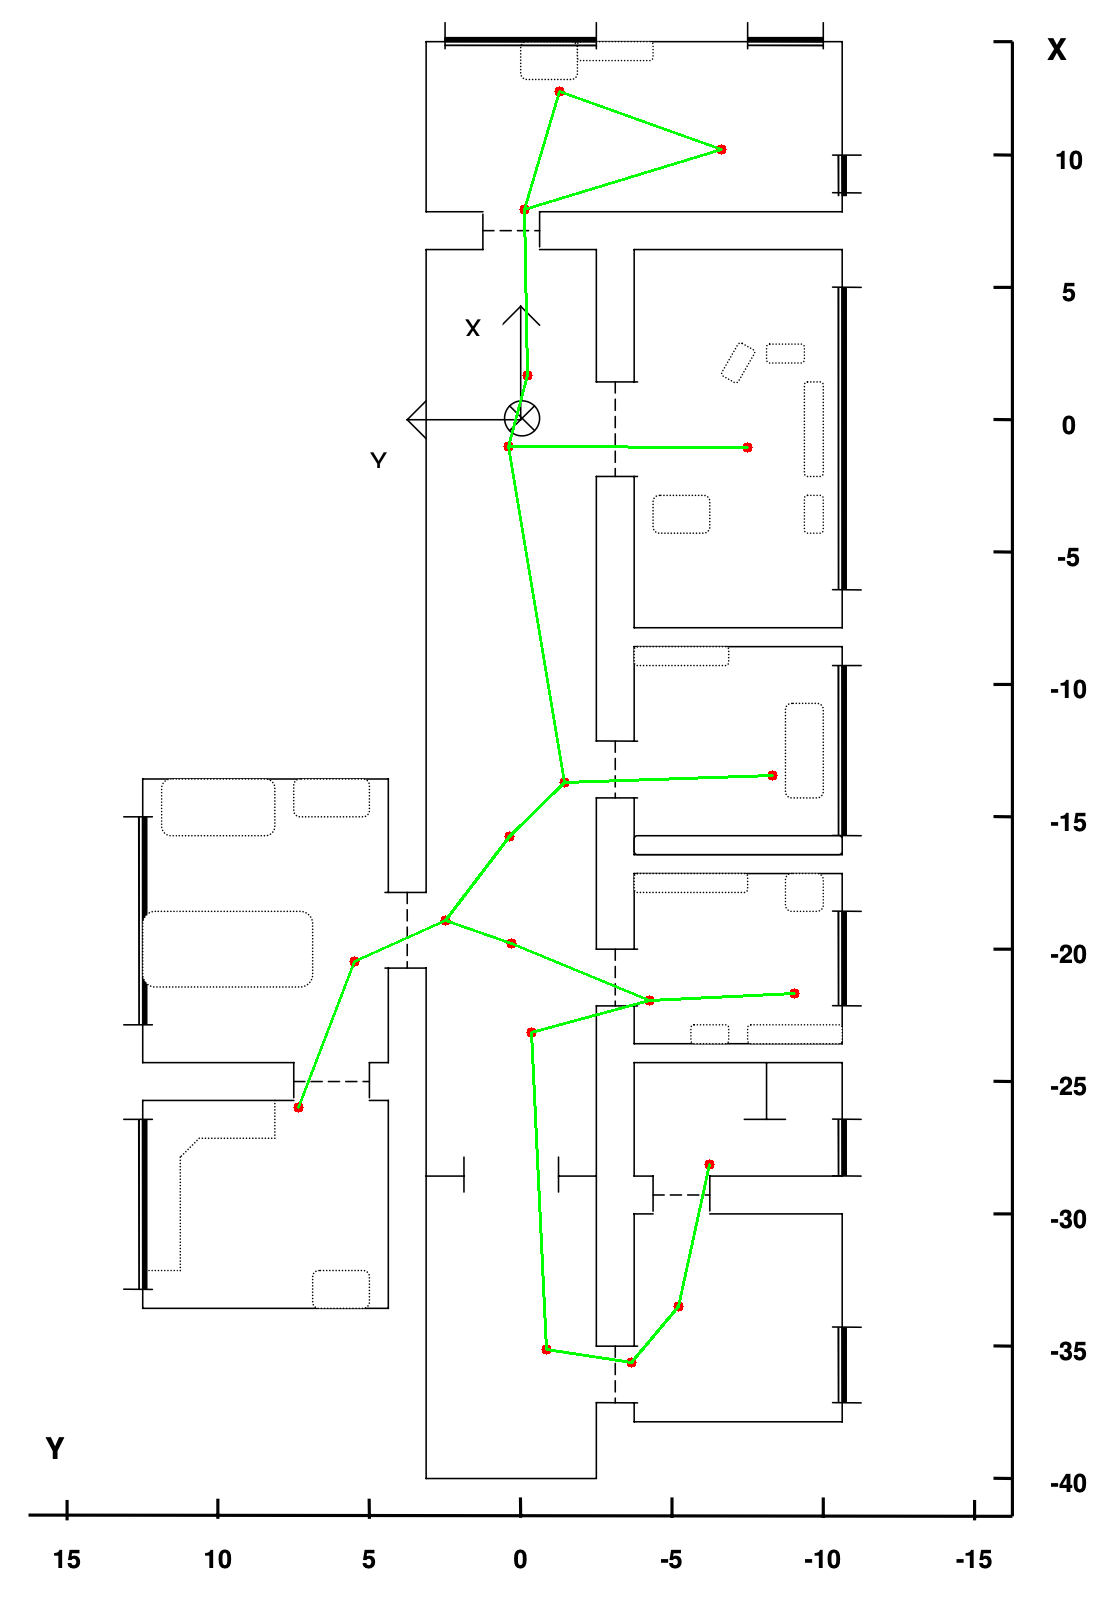
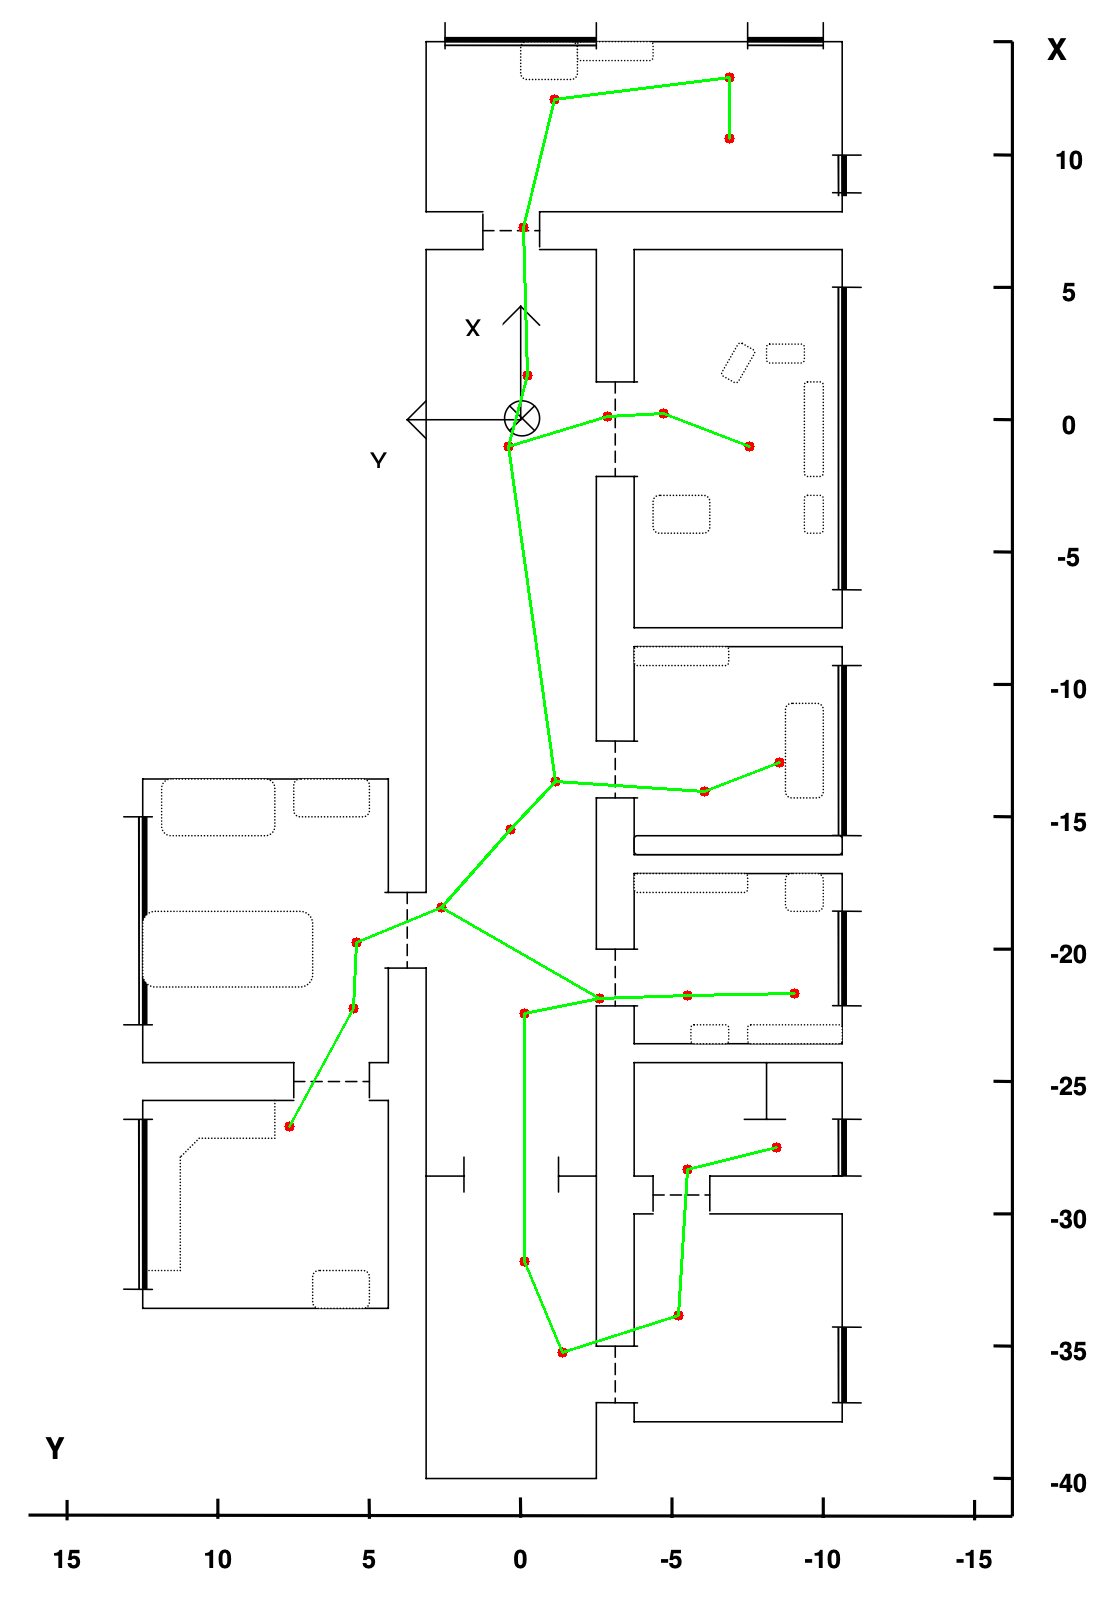
Map alignment process improved. Saarbruecken A maps still needs revision.

diff --git a/amr_devcontainer/vts_ws/src/vts_map_alignment/vts_map_alignment/map_alignment.py b/amr_devcontainer/vts_ws/src/vts_map_alignment/vts_map_alignment/map_alignment.py
@@ -106,6 +106,8 @@ class MapAligner:
                 self.updated_graph.edges.remove(direct_edge)
             if reverse_edge in self.updated_graph.edges:
                 self.updated_graph.edges.remove(reverse_edge)
+            
+            self._check_next_node_neighbors(next_node, new_node)
         
         return None
 
@@ -181,6 +183,47 @@ class MapAligner:
                 best_node = candidate
 
         return best_node, best_score
+    
+
+    def _check_next_node_neighbors(self, next_node: GraphNodeClass, new_node: GraphNodeClass) -> None:
+        """
+        
+
+        Args:
+            next_node (GraphNodeClass): _description_
+        """
+        # Now we check the next node's neighbors in case we can also introduce the new node between them.
+        direction_vector: np.array = np.array(next_node.pose[:2]) - np.array(new_node.pose[:2])
+
+        relevant_edges_idx: list[tuple[int, int]] = [e for e in self.updated_graph.edges
+                                                     if next_node.id in e and new_node.id not in e]
+        relevant_edges: list[tuple[GraphNodeClass, GraphNodeClass]] = [(self.updated_graph.nodes[node_idx], self.updated_graph.nodes[adj_idx])
+                                                                    for node_idx, adj_idx in relevant_edges_idx]
+        
+        for edge in relevant_edges:
+            neighbor: GraphNodeClass = edge[1] if edge[0] == next_node else edge[0]
+            edge_vector: np.array = np.array(neighbor.pose[:2]) - np.array(next_node.pose[:2])
+            direction_vector: np.array = np.array(neighbor.pose[:2]) - np.array(new_node.pose[:2])
+
+            similarity: float = np.dot(direction_vector, edge_vector)
+
+            edge_distance: float = self._compute_distance(neighbor.pose[0], neighbor.pose[1],
+                                                          next_node.pose[0], next_node.pose[1])
+            
+            new_distance: float = self._compute_distance(neighbor.pose[0], neighbor.pose[1],
+                                                          new_node.pose[0], new_node.pose[1])
+
+            if similarity > self._similarity_threshold and edge_distance > new_distance:
+                self.updated_graph.edges.append((new_node.id, neighbor.id))
+                
+                direct_edge = (neighbor.id, next_node.id)
+                reverse_edge = (next_node.id, neighbor.id)
+                if direct_edge in self.updated_graph.edges:
+                    self.updated_graph.edges.remove(direct_edge)
+                if reverse_edge in self.updated_graph.edges:
+                    self.updated_graph.edges.remove(reverse_edge)
+
+        return None
 
 
     def _fusion_nodes(self, node: GraphNodeClass, best_match: GraphNodeClass) -> None:
@@ -240,8 +283,8 @@ class MapAligner:
 
         # Draw nodes
         for node in self.updated_graph.nodes.values():
-            y, x, _ = node.pose  # Assuming pose = (y, x, theta)
-            px, py = world_to_pixel(-x, y, map_img.shape, self._world_limits, origin=self._origin)
+            x, y, _ = node.pose  # Assuming pose = (y, x, theta)
+            px, py = world_to_pixel(x, y, map_img.shape, self._world_limits, origin=self._origin)
             cv2.circle(map_img, (px, py), 5, (0, 0, 255), -1)
 
         # Draw edges
@@ -249,10 +292,10 @@ class MapAligner:
             node_1: GraphNodeClass = self.updated_graph.nodes.get(idx_1)
             node_2: GraphNodeClass = self.updated_graph.nodes.get(idx_2)
             if node_1 is not None and node_2 is not None:
-                y1, x1, _ = node_1.pose
-                y2, x2, _ = node_2.pose
-                p1 = world_to_pixel(-x1, y1, map_img.shape, self._world_limits, origin=self._origin)
-                p2 = world_to_pixel(-x2, y2, map_img.shape, self._world_limits, origin=self._origin)
+                x1, y1, _ = node_1.pose
+                x2, y2, _ = node_2.pose
+                p1 = world_to_pixel(x1, y1, map_img.shape, self._world_limits, origin=self._origin)
+                p2 = world_to_pixel(x2, y2, map_img.shape, self._world_limits, origin=self._origin)
                 cv2.line(map_img, p1, p2, (0, 255, 0), 2)  # Green lines for edges
 
         cv2.imwrite(output_path, map_img)
@@ -274,3 +317,19 @@ class MapAligner:
             tuple[float, float, float]: _description_
         """
         return tuple((a + b) / 2 for a, b in zip(pose_1, pose_2))
+    
+
+    def _compute_distance(self, x: float, y: float, prev_x: float, prev_y: float) -> float:
+        """
+        Computes Euclidean distance between two points.
+
+        Args:
+            x (float): current x coordinate.
+            y (float): current y coordinate.
+            prev_x (float): previous x coordinate.
+            prev_y (float): previous y coordinate.
+
+        Returns:
+            float: distance between (x, y) and (prev_x, prev_y).
+        """
+        return np.sqrt((x - prev_x) ** 2 + (y - prev_y) ** 2)

diff --git a/amr_devcontainer/vts_ws/launch/project.launch.py b/amr_devcontainer/vts_ws/launch/project.launch.py
@@ -5,7 +5,7 @@ from launch_ros.actions import Node
 def generate_launch_description():
     model_name: str = "m13_ae_97"
 
-    lab: str = "freiburg_ext"
+    # lab: str = "freiburg_a"
 
     # start_1: tuple[float, float, float] = (0.2, 0.0, 0.0)
     # trajectory_1: str = "cold-freiburg_part_a_seq2_night1"
@@ -13,15 +13,20 @@ def generate_launch_description():
     # start_2: tuple[float, float, float] = (2.29, -0.29, 0.0)
     # trajectory_2: str = "cold-freiburg_part_a_seq2_sunny3"
 
-    start_1: tuple[float, float, float] = (0.29, 0.0, 0.0)
-    trajectory_1: str = "cold-freiburg_part_b_seq3_sunny1"
+    # lab: str = "freiburg_ext"
+    # start_1: tuple[float, float, float] = (0.29, 0.0, 0.0)
+    # trajectory_1: str = "cold-freiburg_part_b_seq3_sunny1"
 
-    start_2: tuple[float, float, float] = (0.46, -0.02, -0.11)
-    trajectory_2: str = "cold-freiburg_part_b_seq3_cloudy3"
+    # start_2: tuple[float, float, float] = (0.46, -0.02, -0.11)
+    # trajectory_2: str = "cold-freiburg_part_b_seq3_cloudy3"
 
-    # lab: str = "saarbruecken_a"
-    # start: tuple[float, float, float] = (0.19, 0.01, 0.04)
-    # trajectory: str = "cold-saarbruecken_part_a_seq2_cloudy1"
+    lab: str = "saarbruecken_a"
+    start_1: tuple[float, float, float] = (0.19, 0.01, 0.04)
+    trajectory_1: str = "cold-saarbruecken_part_a_seq2_cloudy1"
+
+    start_2: tuple[float, float, float] = (0.27, 0.03, 0.07)
+    trajectory_2: str = "cold-saarbruecken_part_a_seq1_night2"
+
 
     # start: tuple[float, float, float] = (0.27, 0.0, 0.0)
     # trajectory: str = "cold-saarbruecken_part_b_seq4_sunny1"
@@ -74,22 +79,22 @@ def generate_launch_description():
 
     return LaunchDescription(
         [
-            Node(
-                package="vts_graph_building",
-                executable="graph_builder",
-                output="screen",
-                arguments=["--ros-args", "--log-level", "WARN"],
-                parameters=[{"start_1": start_1, "start_2": start_2, "world_limits": settings[lab]["world_limits"],
-                             "map_name": settings[lab]["map_name"], "origin": settings[lab]["origin"],
-                             "weights": settings[lab]["weights"], "trajectory_1": trajectory_1,
-                             "trajectory_2": trajectory_2, "model_name": model_name, "publishing_topic": "graph_building_1"}]),
-            Node(
-                package="vts_camera",
-                executable="camera",
-                output="screen",
-                arguments=["--ros-args", "--log-level", "WARN"],
-                parameters=[{"trajectory_1": trajectory_1, "trajectory_2": trajectory_2, "model_name": model_name}],
-            ),
+            # Node(
+            #     package="vts_graph_building",
+            #     executable="graph_builder",
+            #     output="screen",
+            #     arguments=["--ros-args", "--log-level", "WARN"],
+            #     parameters=[{"start_1": start_1, "start_2": start_2, "world_limits": settings[lab]["world_limits"],
+            #                  "map_name": settings[lab]["map_name"], "origin": settings[lab]["origin"],
+            #                  "weights": settings[lab]["weights"], "trajectory_1": trajectory_1,
+            #                  "trajectory_2": trajectory_2, "model_name": model_name, "publishing_topic": "graph_building_1"}]),
+            # Node(
+            #     package="vts_camera",
+            #     executable="camera",
+            #     output="screen",
+            #     arguments=["--ros-args", "--log-level", "WARN"],
+            #     parameters=[{"trajectory_1": trajectory_1, "trajectory_2": trajectory_2, "model_name": model_name}],
+            # ),
             Node(
                 package="vts_map_alignment",
                 executable="graph_alignment",

diff --git a/amr_devcontainer/vts_ws/src/vts_map_alignment/vts_map_alignment/map_alignment_node.py b/amr_devcontainer/vts_ws/src/vts_map_alignment/vts_map_alignment/map_alignment_node.py
@@ -33,16 +33,16 @@ class GraphAlignment(Node):
         world_limits: tuple[float, float, float, float] = tuple(self.get_parameter("world_limits").
                                                                  get_parameter_value().double_array_value.tolist())
 
-        self._graph_subscriber = self.create_subscription(
-            FullGraph, "/graph_alignment", self.graph_message_callback, 10
-        )
+        # self._graph_subscriber = self.create_subscription(
+        #     FullGraph, "/graph_alignment", self.graph_message_callback, 10
+        # )
 
         self._graph_queue: Deque[FullGraph] = deque(maxlen=2)
 
         self._map_aligner: MapAligner = MapAligner(model_name, trajectory, world_limits, origin, map_name)
 
-        # self._start_directly()
-    
+        self._start_directly()
+
 
     def _start_directly(self) -> None:
         first_graph: str = "graph_1.pkl"

diff --git a/amr_devcontainer/vts_ws/src/vts_graph_building/vts_graph_building/graph_builder_node.py b/amr_devcontainer/vts_ws/src/vts_graph_building/vts_graph_building/graph_builder_node.py
@@ -21,10 +21,10 @@ class GraphBuilderNode(Node):
         self.declare_parameter("n", 30)
         self._n: int = self.get_parameter("n").get_parameter_value().integer_value
 
-        self.declare_parameter("gamma_proportion", 0.5) # lower bound for peaks
+        self.declare_parameter("gamma_proportion", 0.4) # lower bound for peaks 0.5
         self._gamma_proportion: float = self.get_parameter("gamma_proportion").get_parameter_value().double_value
 
-        self.declare_parameter("delta_proportion", 0.11) # minimum difference of the a. c. between consecutive peaks 0.11
+        self.declare_parameter("delta_proportion", 0.09) # minimum difference of the a. c. between consecutive peaks 0.11
         self._delta_proportion: float = self.get_parameter("delta_proportion").get_parameter_value().double_value
 
         self.declare_parameter("distance_threshold", 3.0)

diff --git a/amr_devcontainer/vts_ws/src/vts_graph_building/vts_graph_building/graph_builder.py b/amr_devcontainer/vts_ws/src/vts_graph_building/vts_graph_building/graph_builder.py
@@ -688,10 +688,6 @@ class GraphBuilder:
         graph: gtsam.NonlinearFactorGraph = gtsam.NonlinearFactorGraph()
         initial_estimates: gtsam.Values = gtsam.Values()
 
-        # Logging for debugging
-        # self._logger.warn(f"Optimizing poses for nodes: {[(node.id, node.pose) for node in nodes]}")
-        # self._logger.warn(f"Graph edges: {[(n1.id, n2.id) for n1, n2 in graph_edges]}")
-
         # --- Step 1: Add a prior to fix the first node (corridor node) ---
         if len(nodes) > 0:
             fixed_node: GraphNodeClass = nodes[0]
